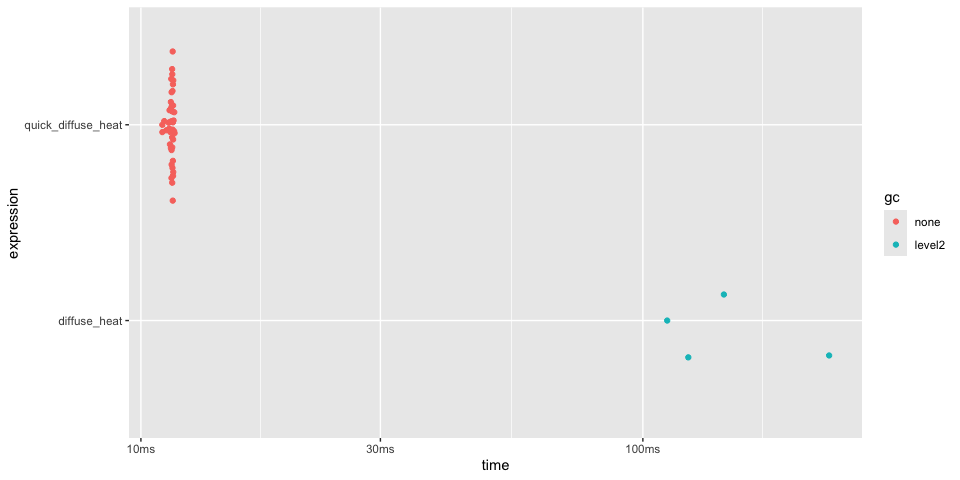
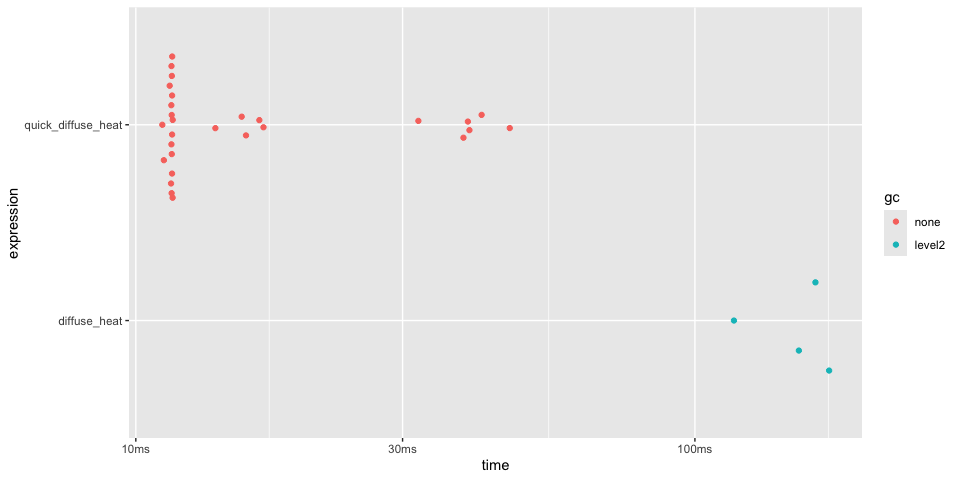
render readme

diff --git a/README.md b/README.md
@@ -140,9 +140,9 @@ timings
 #> # A tibble: 3 × 6
 #>   expression      min   median `itr/sec` mem_alloc `gc/sec`
 #>   <bch:expr> <bch:tm> <bch:tm>     <dbl> <bch:byt>    <dbl>
-#> 1 r             481ms 481.18ms      2.08     782KB     8.31
-#> 2 quickr        911µs   1.06ms    940.       782KB    18.2 
-#> 3 c             916µs   1.06ms    946.       782KB    17.9
+#> 1 r             480ms 484.06ms      2.07     782KB     3.10
+#> 2 quickr        912µs   1.05ms    947.       782KB    17.7 
+#> 3 c             918µs   1.05ms    945.       782KB    17.6
 plot(timings) + bench::scale_x_bench_time(base = NULL)
 ```
 
@@ -165,25 +165,26 @@ In the case of `convolve()`, `quick()` returns a function approximately
 
 <!-- -->
 
-    #>  [1] -            :            !            !=           (           
-    #>  [6] [            [<-          [<<-         {            *           
-    #> [11] /            &            &&           %*%          %/%         
-    #> [16] %%           %o%          ^            +            <           
-    #> [21] <-           <<-          <=           =            ==          
-    #> [26] >            >=           |            ||           Arg         
-    #> [31] Conj         Fortran      Im           Mod          Re          
-    #> [36] abs          acos         array        as.double    asin        
-    #> [41] atan         backsolve    break        c            cat         
-    #> [46] cbind        ceiling      character    chol         chol2inv    
-    #> [51] cos          crossprod    declare      diag         dim         
-    #> [56] double       exp          floor        for          forwardsolve
-    #> [61] if           ifelse       integer      length       log         
-    #> [66] log10        logical      matrix       max          min         
-    #> [71] ncol         next         nrow         numeric      outer       
-    #> [76] print        prod         qr.solve     raw          rbind       
-    #> [81] repeat       runif        seq          seq_along    seq_len     
-    #> [86] sin          solve        sqrt         sum          t           
-    #> [91] tan          tcrossprod   which.max    which.min    while
+    #>   [1] -            :            !            !=           (           
+    #>   [6] [            [<-          [<<-         {            *           
+    #>  [11] /            &            &&           %*%          %/%         
+    #>  [16] %%           %o%          ^            +            <           
+    #>  [21] <-           <<-          <=           =            ==          
+    #>  [26] >            >=           |            ||           $           
+    #>  [31] Arg          Conj         Fortran      Im           Mod         
+    #>  [36] Re           abs          acos         array        as.double   
+    #>  [41] asin         atan         backsolve    break        c           
+    #>  [46] cat          cbind        ceiling      character    chol        
+    #>  [51] chol2inv     cos          crossprod    declare      diag        
+    #>  [56] dim          double       drop         exp          floor       
+    #>  [61] for          forwardsolve if           ifelse       integer     
+    #>  [66] is.null      length       log          log10        logical     
+    #>  [71] matrix       max          min          ncol         next        
+    #>  [76] nrow         numeric      outer        print        prod        
+    #>  [81] qr.solve     raw          rbind        repeat       runif       
+    #>  [86] seq          seq_along    seq_len      sin          solve       
+    #>  [91] sqrt         stop         sum          svd          t           
+    #>  [96] tan          tcrossprod   which.max    which.min    while
 
 Many of these restrictions are expected to be relaxed as the project
 matures. However, quickr is intended primarily for high-performance
@@ -300,8 +301,8 @@ timings
 #> # A tibble: 2 × 6
 #>   expression         min   median `itr/sec` mem_alloc `gc/sec`
 #>   <bch:expr>    <bch:tm> <bch:tm>     <dbl> <bch:byt>    <dbl>
-#> 1 slow_viterbi   62.36µs  72.08µs    13291.    1.59KB     29.2
-#> 2 quick_viterbi   1.68µs   1.89µs   522138.        0B      0
+#> 1 slow_viterbi   61.83µs     72µs    13359.    1.59KB     29.6
+#> 2 quick_viterbi   1.68µs   1.84µs   514906.        0B      0
 plot(timings)
 ```
 
@@ -392,8 +393,8 @@ summary(timings, relative = TRUE)
 #> # A tibble: 2 × 6
 #>   expression           min median `itr/sec` mem_alloc `gc/sec`
 #>   <bch:expr>         <dbl>  <dbl>     <dbl>     <dbl>    <dbl>
-#> 1 diffuse_heat        10.1   11.6       1       4893.      Inf
-#> 2 quick_diffuse_heat   1      1        13.4        1       NaN
+#> 1 diffuse_heat        10.5   13.7      1        4893.      Inf
+#> 2 quick_diffuse_heat   1      1        8.32        1       NaN
 plot(timings)
 ```
 
@@ -439,9 +440,9 @@ timings
 #> # A tibble: 3 × 6
 #>   expression      min   median `itr/sec` mem_alloc `gc/sec`
 #>   <bch:expr> <bch:tm> <bch:tm>     <dbl> <bch:byt>    <dbl>
-#> 1 r           68.34ms  78.79ms      9.64  124.24MB    21.2 
-#> 2 rcpp         5.92ms   6.29ms    155.      4.46MB     1.99
-#> 3 quickr       2.15ms   2.26ms    438.    781.35KB     3.98
+#> 1 r           74.09ms  81.72ms      9.54  124.24MB    24.8 
+#> 2 rcpp         5.64ms   6.21ms    162.      4.46MB     0   
+#> 3 quickr       2.15ms    2.2ms    447.    781.35KB     3.99
 
 timings$expression <- factor(names(timings$expression), rev(names(timings$expression)))
 plot(timings) + bench::scale_x_bench_time(base = NULL)
@@ -465,6 +466,20 @@ RcppArmadillo implementation. The `fastLm` function is adapted from the
 README of the RcppArmadillo project.
 
 ``` r
+
+# reference implementation
+fast_lm_ref <- function(X, y) {
+  fit <- lm(y ~ X - 1)
+  s <- summary(fit)
+
+  list(
+    coefficients = unname(coef(fit)),
+    stderr = unname(s$coefficients[, "Std. Error"]),
+    df.residual = fit$df.residual
+  )
+}
+
+# fast-path R implementation
 fast_lm <- function(X, y) {
   declare(
     type(X = double(n, k)),
@@ -490,8 +505,10 @@ fast_lm <- function(X, y) {
   )
 }
 
+# quickr func
 quick_fast_lm <- quick(fast_lm)
 
+# RcppArmadillo implementation
 Rcpp::sourceCpp(
 code = '
 #include <RcppArmadillo/Lighter>
@@ -521,19 +538,30 @@ beta <- c(0.5, 1.0, -2.0, 10, 5)
 X <- cbind(1, matrix(rnorm(3 * 10^5), ncol = 4))
 y <- as.vector(X %*% beta + rnorm(nrow(X), sd = 2))
 
+f <- lm.fit(X, y)
+ff <- lm(y ~ X - 1)
+all.equal(f$coefficients, lm(y ~ X)$coefficients)
+#> [1] "Names: 5 string mismatches"     "Numeric: lengths (5, 6) differ"
+all.equal(unname(f$coefficients), unname(coef(lm(y ~ X - 1))))
+#> [1] TRUE
+
+
+
 timings <- bench::mark(
-  R = fast_lm(X, y),
+  `R: lm()` = fast_lm_ref(X, y),
+  `R: lm.fit()` = fast_lm(X, y),
   quickr = quick_fast_lm(X, y),
   RcppArmadillo = rcpp_armadillo_fast_lm(X, y)
 )
 
 timings
-#> # A tibble: 3 × 6
+#> # A tibble: 4 × 6
 #>   expression         min   median `itr/sec` mem_alloc `gc/sec`
 #>   <bch:expr>    <bch:tm> <bch:tm>     <dbl> <bch:byt>    <dbl>
-#> 1 R               1.28ms   1.82ms      545.    13.7MB     148.
-#> 2 quickr          1.65ms   1.73ms      575.        0B       0 
-#> 3 RcppArmadillo   1.67ms   2.02ms      491.        0B       0
+#> 1 R: lm()        10.93ms  11.92ms      84.5    29.2MB     117.
+#> 2 R: lm.fit()     1.44ms   1.66ms     591.     13.7MB     149.
+#> 3 quickr          1.77ms   2.05ms     476.         0B       0 
+#> 4 RcppArmadillo   1.65ms   1.89ms     515.         0B       0
 plot(timings)
 ```
 
